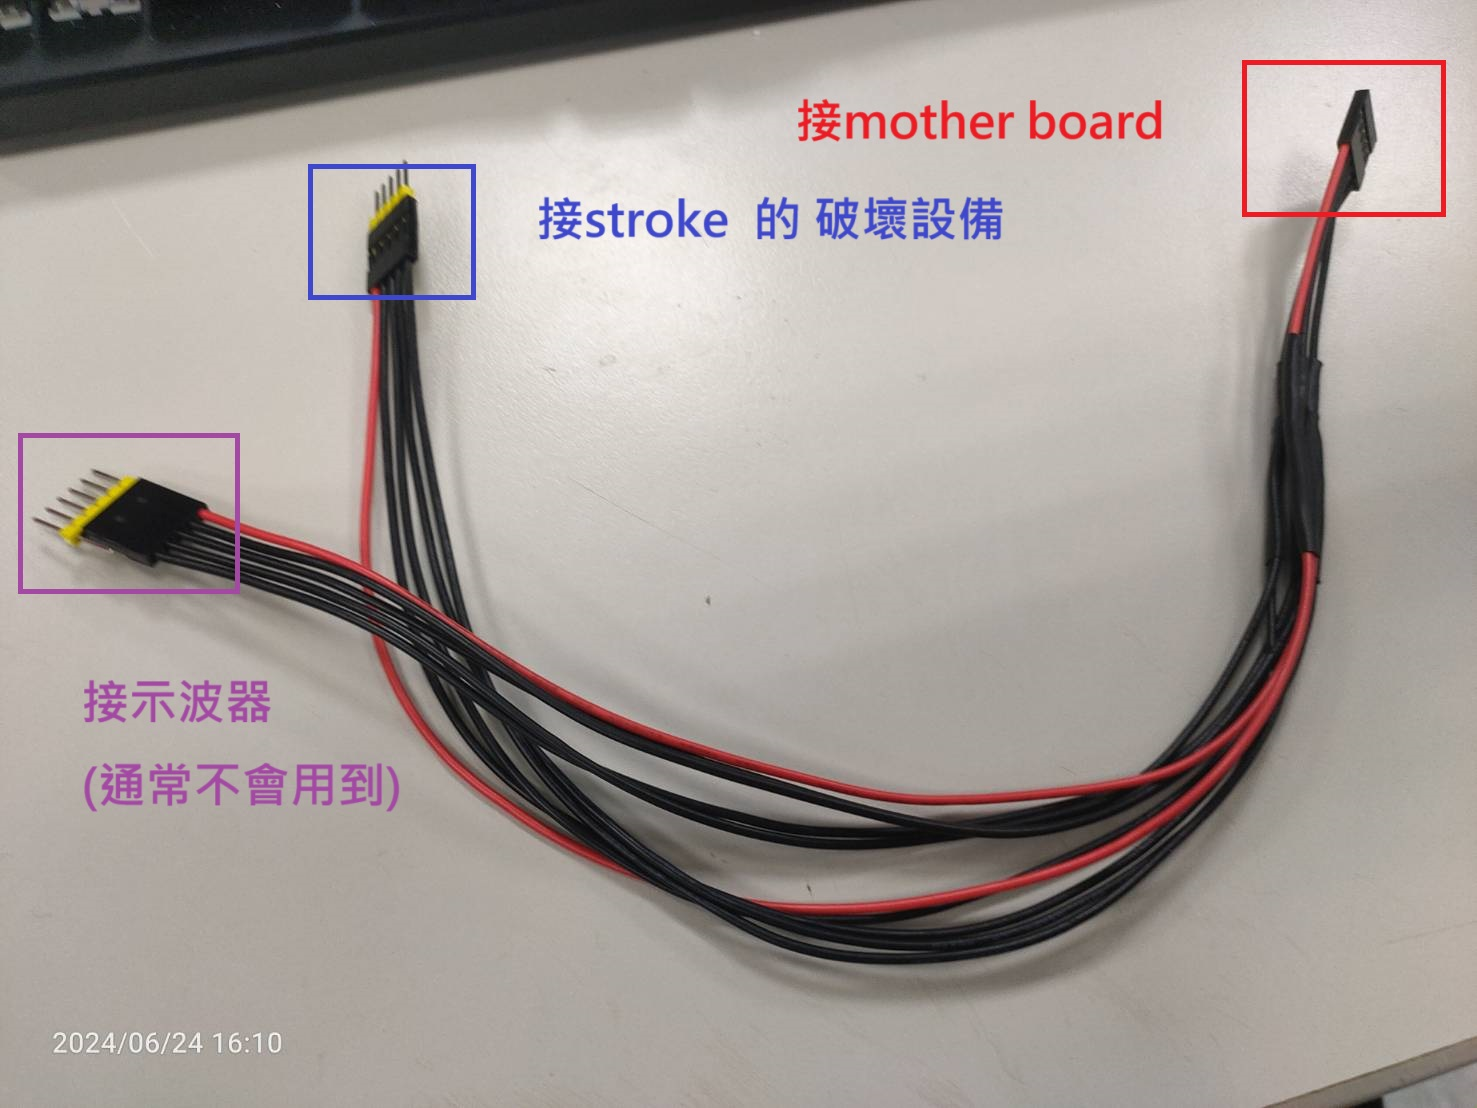
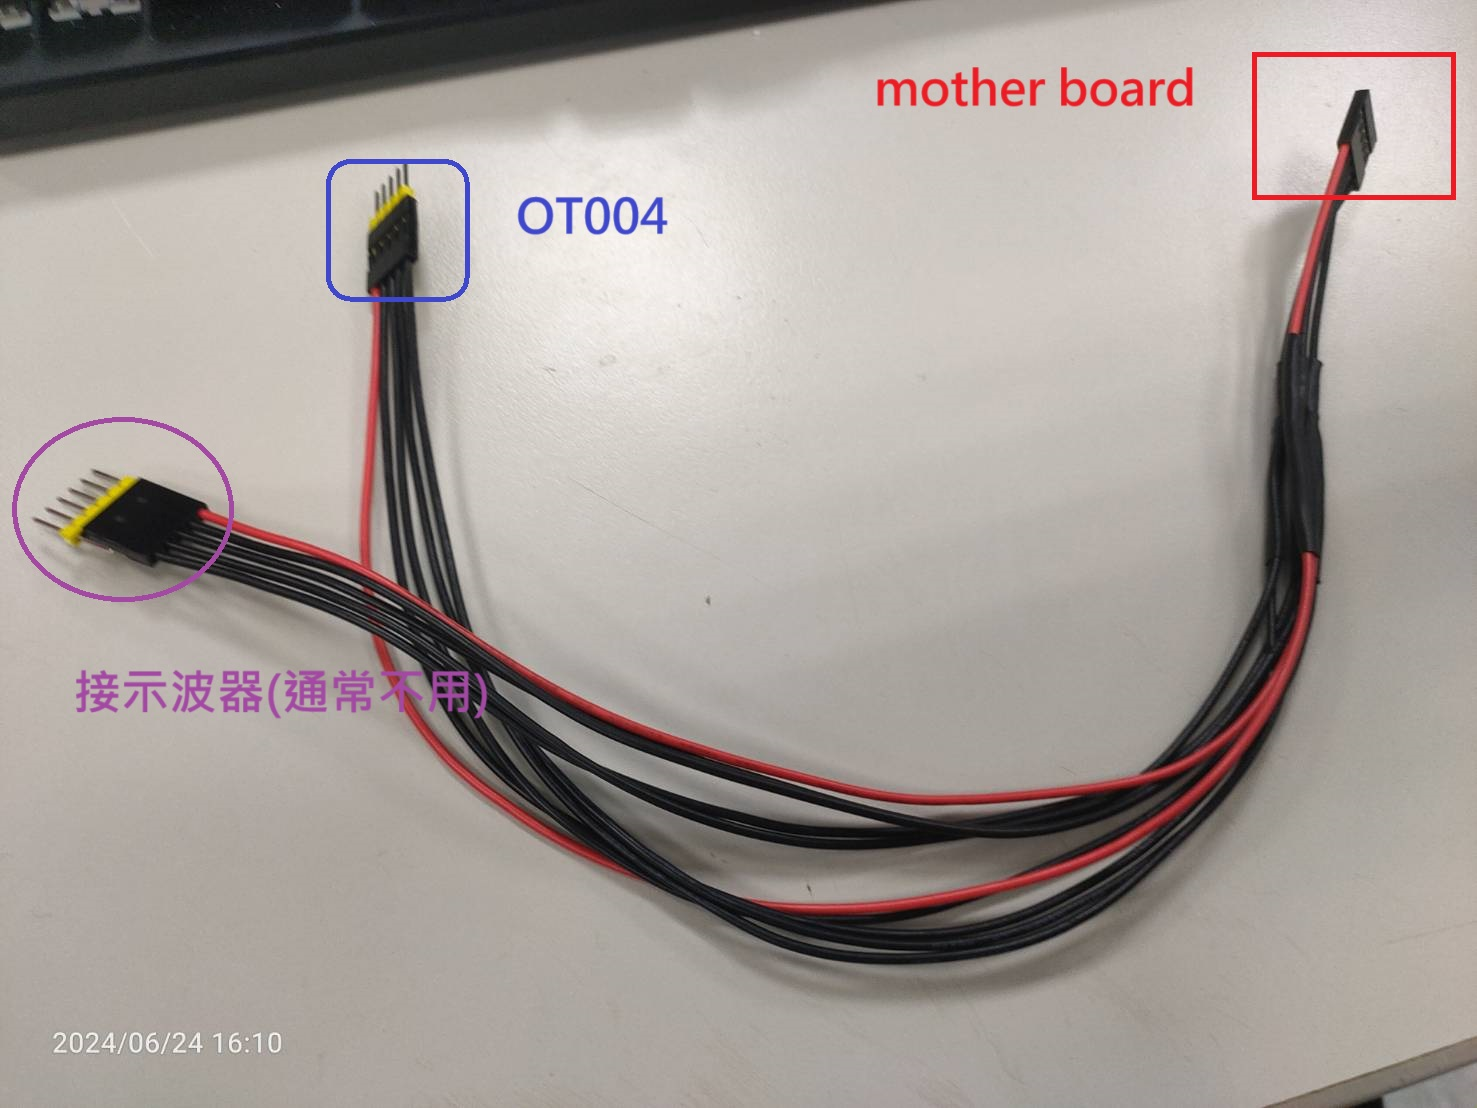
update I2C_recovery

diff --git a/I2C_bus_recovery.md b/I2C_bus_recovery.md
@@ -1,9 +1,8 @@
 ---
 created	:	Mon Jun 24 13:40:30 CST 2024
-date	:	.
+date	:	Mon Jun 24 17:26:30 CST 2024
 
 -------------------------------------------------------------------------------
-
 # I2C bus recovery #
 這個原理是我們要測試
 SMbus **可能**幾萬次後 有機率發生
@@ -15,7 +14,7 @@ SMbus **可能**幾萬次後 有機率發生
 
 > BMC basic : BMC normal status --> high (這樣device 才能溝通)
 
-也因為這樣 所以 stroke 大大他們設計了一個設備
+也因為這樣 所以 stroke 大大他們設計了一個設備 (**OT004**)
 *搞破壞*的設備 (不管你BMC 是不是有在溝通 他都會把device 拉住)
 當BMC看到你的訊號被blocked住32ms後
 就會釋放掉他 **等於reset**
@@ -23,8 +22,8 @@ SMbus **可能**幾萬次後 有機率發生
 # how to do #
 
 ## equipment ##
-1. 這裡可以用的是 big power (我們通常有兩種 power)
-2. 有一個線是 brian 的 涂 做的接線 (brian's al dupont lines)
+1. ATX :  big power (我們通常有兩種 power)
+2. 有一個線是 杜邦線 的接線 (brian's al dupont lines)
 3. OT004   破壞設備
 ![3](./pic/I2C_bus_recovery_de.jpg)
 
@@ -39,7 +38,7 @@ SMbus **可能**幾萬次後 有機率發生
 至於接法 要看電路圖
 我依照 6102的例子來寫
 
-會有4個(因為要讓 BMC 被stroke 設備來 執行 所以 要知道 SDA CLK GND VCC **這個是 I2C的基礎喔!!!**)
+SDA CLK GND VCC
 ![connect_de](./pic/I2C_bus_recovery_connect.jpg)
 
 這裡我是依照 brian's al dupont lines 的紅色來看(反正不是CLK 就是 SDA)
@@ -64,4 +63,4 @@ SMbus **可能**幾萬次後 有機率發生
 
 I2C recovery function success --> 閃爍橘燈
 
-我測試 很快 所以都會直接拉住 --> I2C recovery function success
+我測試 很快 所以都會直接到
